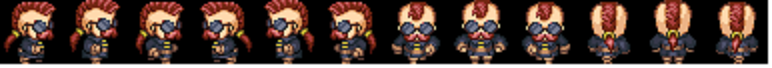
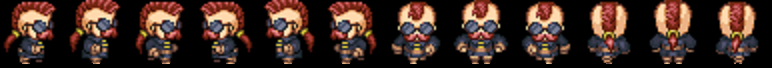
Ciemne Tło / poprawiony sprite

Changed region(s): [[0.0, 0.0, 1.0, 1.0]]

diff --git a/src/lf2/jtp/Game.java b/src/lf2/jtp/Game.java
@@ -125,7 +125,7 @@ public class Game implements Runnable {
    
    protected void render(Graphics2D g){
       
-      g.setColor(new Color(0, 100, 100));
+      g.setColor(new Color(0, 0, 0));
       g.fillRect(0, 0, monitor.width, monitor.height);
       g.setFont(czcionkaMenu);
       g.setColor(new Color(0, 0, 100));
